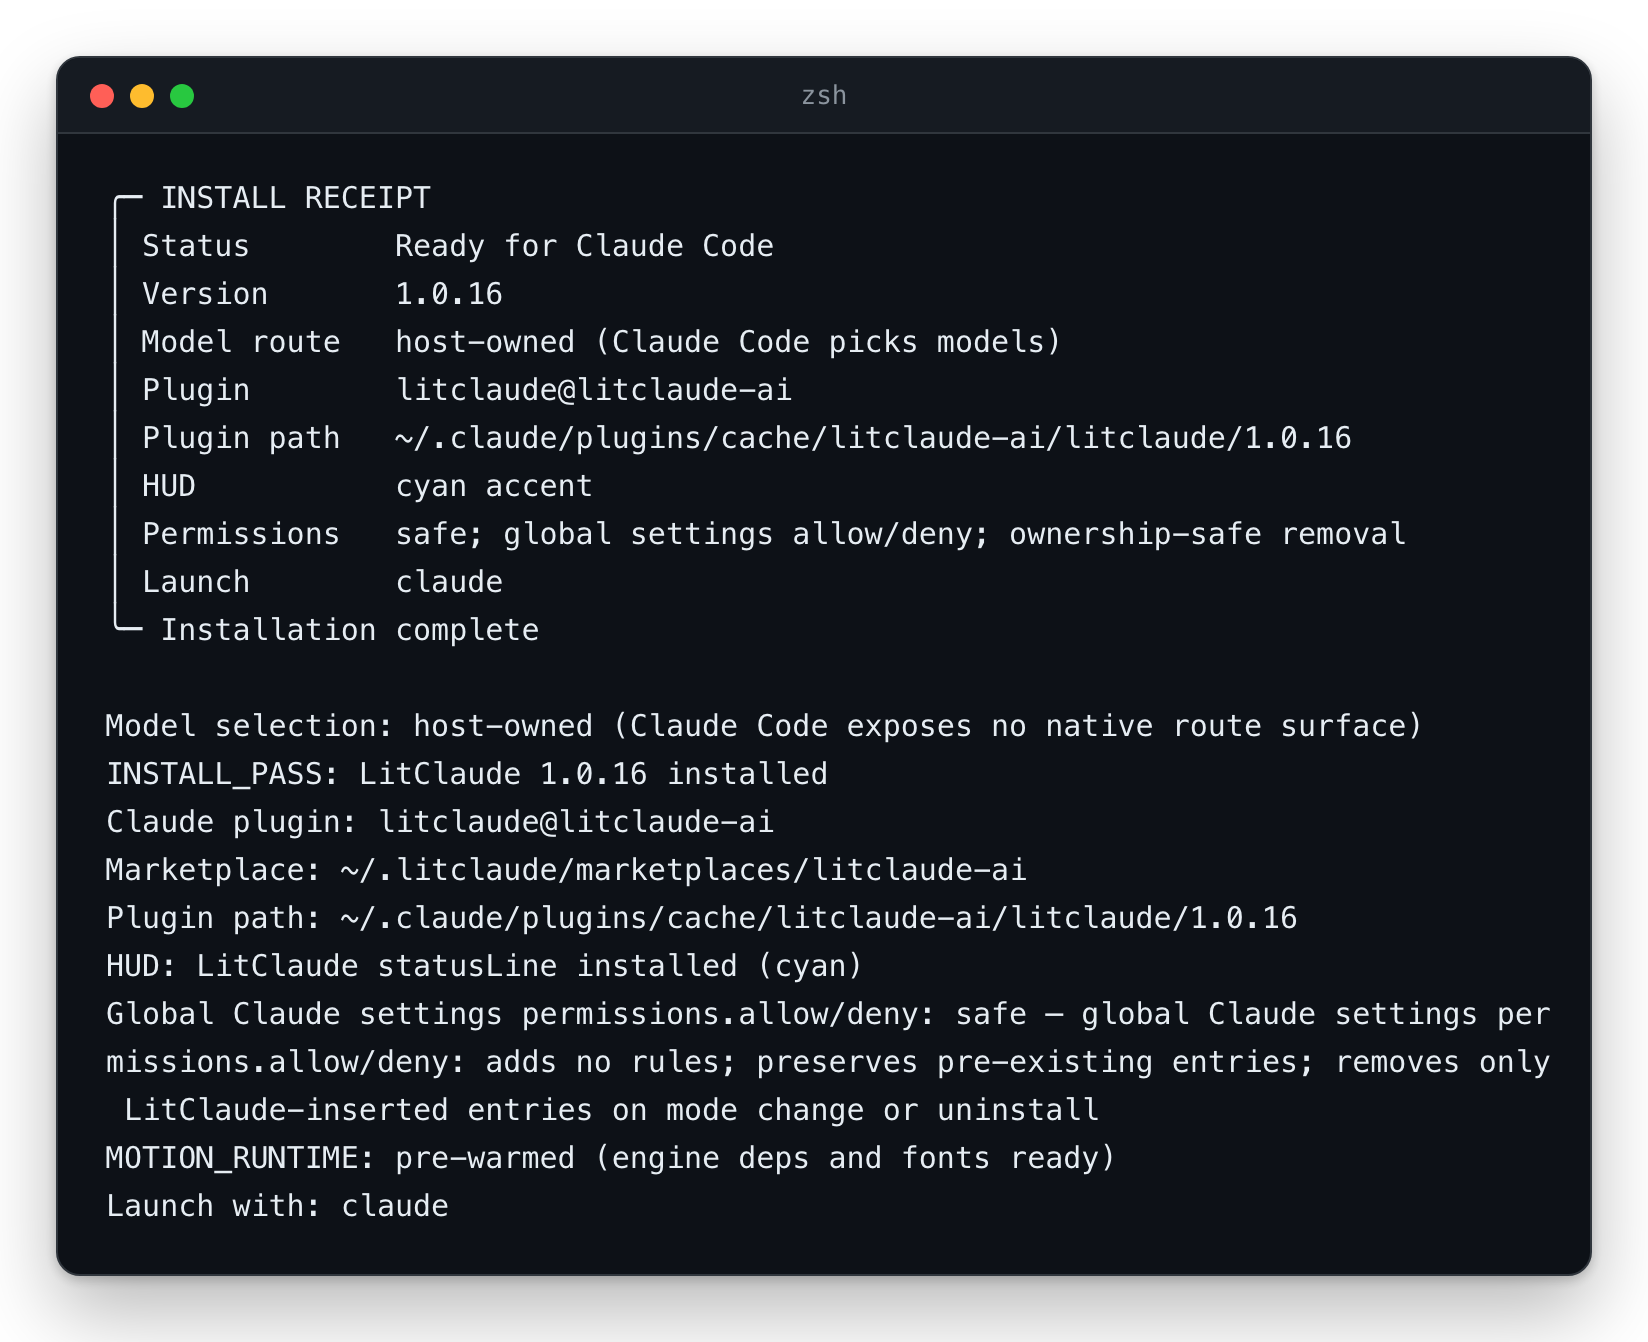
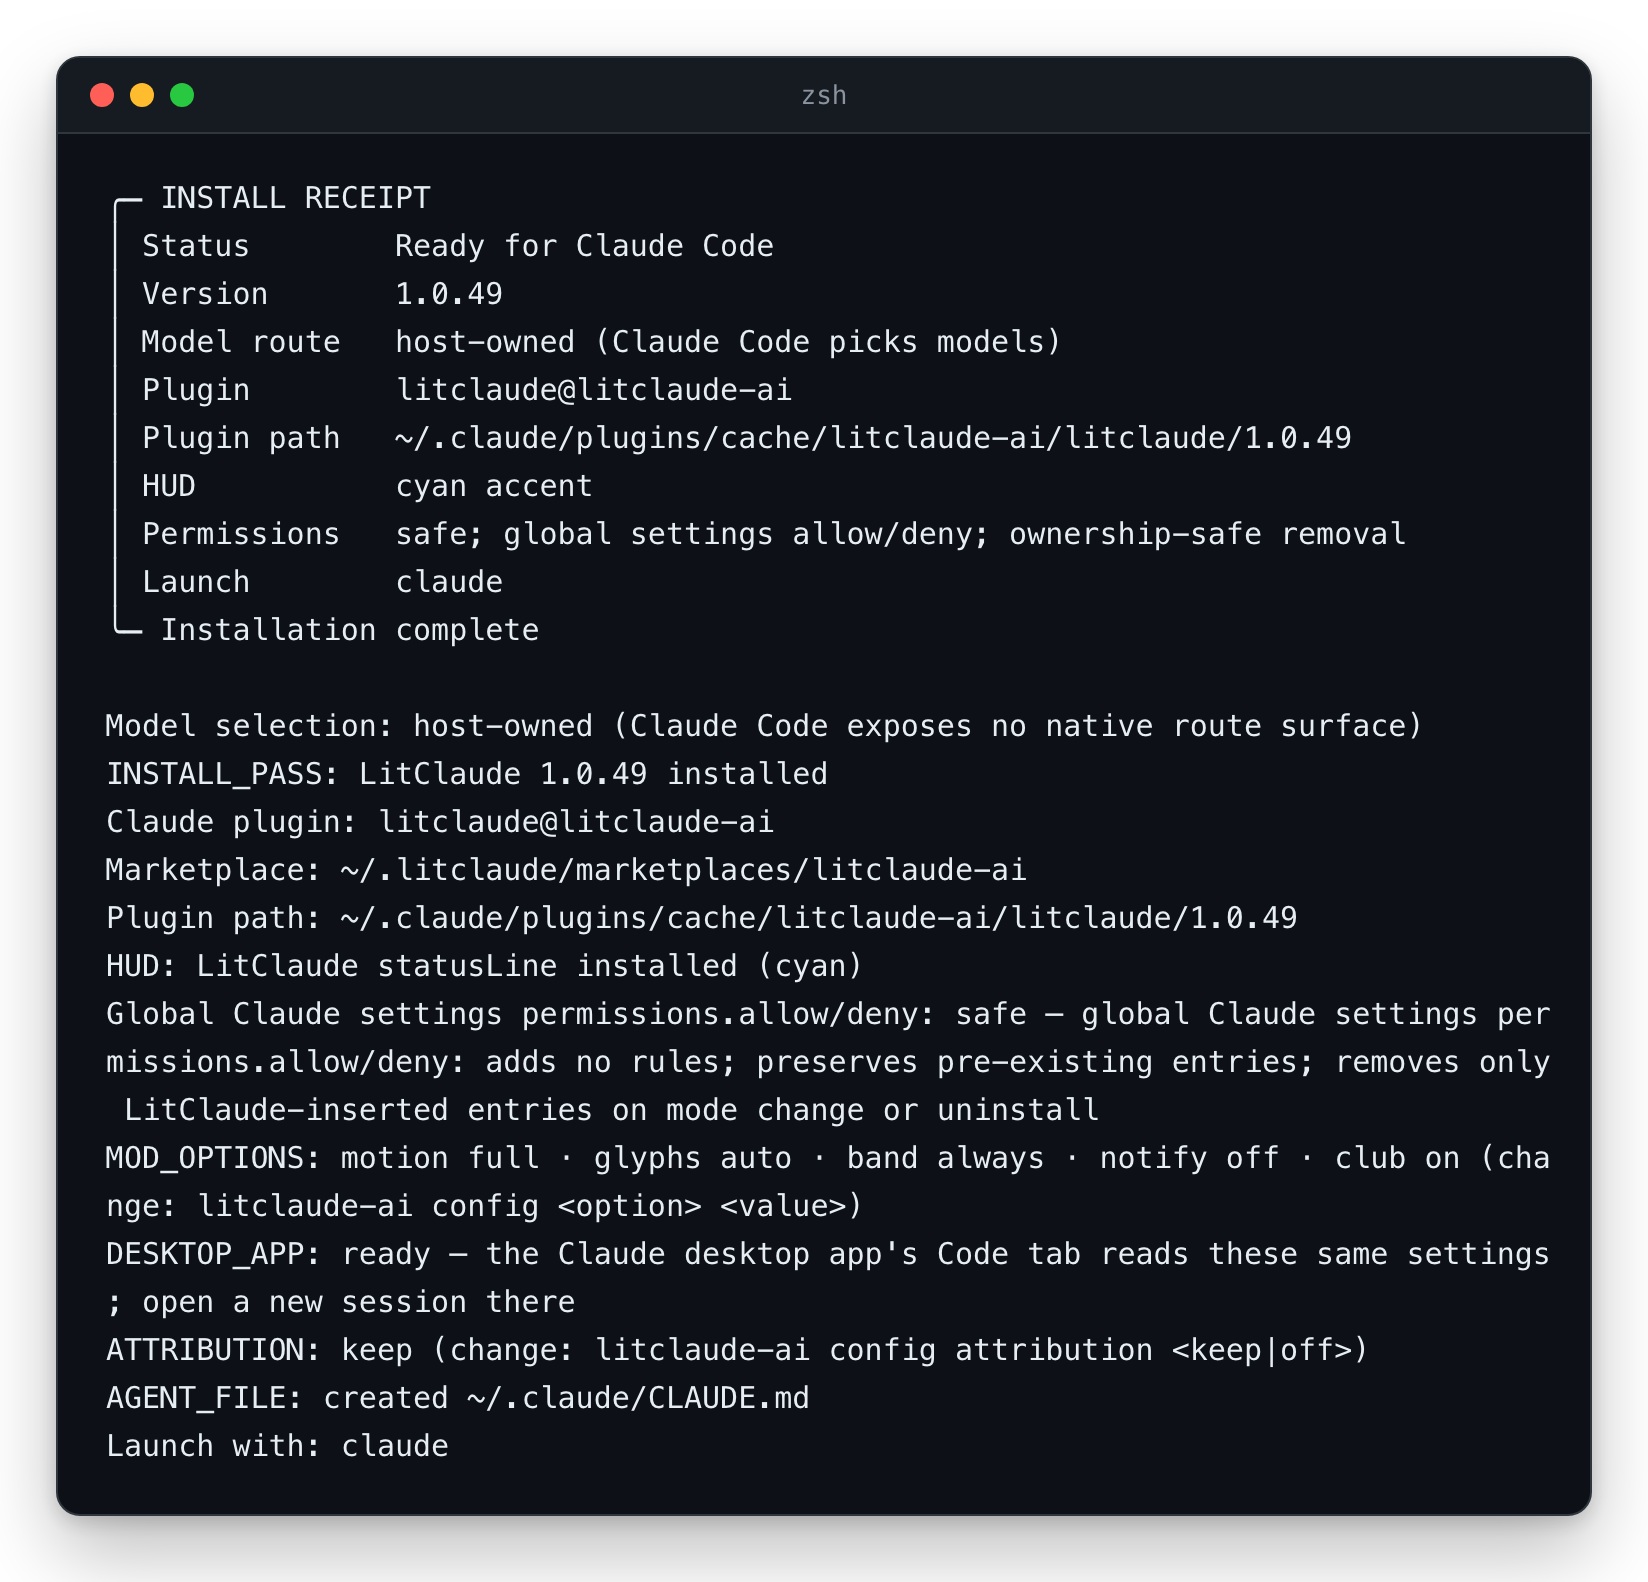
docs(screens): recapture the install receipt with its full output
- install-done-dark/light now show every line the installer prints after the
  receipt, through DESKTOP_APP, ATTRIBUTION, AGENT_FILE and Launch with: claude;
  the motion pre-warm line is gone.
- The screen size cap rises from 60 KiB to 70 KiB to fit the taller capture.
- Both guides describe the new closing lines in the alt text and in the prose
  above the picture, which still spoke of the video tools.

diff --git a/docs/guide_ko-KR.md b/docs/guide_ko-KR.md
@@ -52,11 +52,11 @@ npm exec --yes --package @litfamily/litclaude@latest -- litclaude install --yes
 
 다섯 단계는 각각 체크 표시로 끝나는 짧은 블록을 출력하고, 그다음에 설치 영수증이 나옵니다. 영수증에는
 버전, 플러그인, 파일이 들어간 폴더, HUD 강조색, 권한 모드(safe는 권한 규칙을 더하지 않습니다),
-Claude Code를 시작하는 명령이 적힙니다. 마지막 줄들은 영상 도구에 관한 내용입니다. 이번 실행에서는
-도구가 이미 디스크에 있어서 그 줄이 바로 나왔고, 처음 설치할 때는 먼저 내려받습니다.
-자세한 내용은 [설치](#설치)에 있습니다.
+Claude Code를 시작하는 명령이 적힙니다. 마지막 줄들은 표시 옵션, Claude 데스크톱 앱의 Code 탭이 같은
+설정을 읽는다는 확인, 커밋 attribution 설정, LitClaude가 만든 에이전트 파일을 차례로 보여 주고,
+시작 명령을 한 번 더 적습니다.
 
-<p align="center"><picture><source media="(prefers-color-scheme: dark)" srcset="./assets/screens/install-done-dark.webp" /><img src="./assets/screens/install-done-light.webp" width="824" alt="zsh라는 제목의 터미널 창. INSTALL RECEIPT: Status Ready for Claude Code, Version X.Y.Z, Model route host-owned (Claude Code picks models), Plugin litclaude@litclaude-ai, Plugin path ~/.claude/plugins/cache/litclaude-ai/litclaude/X.Y.Z, HUD cyan accent, Permissions safe; global settings allow/deny; ownership-safe removal, Launch claude, Installation complete. 그 아래에 Model selection: host-owned (Claude Code exposes no native route surface), INSTALL_PASS: LitClaude X.Y.Z installed, Claude plugin: litclaude@litclaude-ai, ~ 아래의 Marketplace와 Plugin path 위치, HUD: LitClaude statusLine installed (cyan), 전역 설정 권한 줄, Launch with: claude 줄이 이어집니다." /></picture></p>
+<p align="center"><picture><source media="(prefers-color-scheme: dark)" srcset="./assets/screens/install-done-dark.webp" /><img src="./assets/screens/install-done-light.webp" width="824" alt="zsh라는 제목의 터미널 창. INSTALL RECEIPT: Status Ready for Claude Code, Version X.Y.Z, Model route host-owned (Claude Code picks models), Plugin litclaude@litclaude-ai, Plugin path ~/.claude/plugins/cache/litclaude-ai/litclaude/X.Y.Z, HUD cyan accent, Permissions safe; global settings allow/deny; ownership-safe removal, Launch claude, Installation complete. 그 아래에 Model selection: host-owned (Claude Code exposes no native route surface), INSTALL_PASS: LitClaude X.Y.Z installed, Claude plugin: litclaude@litclaude-ai, ~ 아래의 Marketplace와 Plugin path 위치, HUD: LitClaude statusLine installed (cyan), 전역 설정 권한 줄, MOD_OPTIONS: motion full · glyphs auto · band always · notify off · club on, DESKTOP_APP: ready — the Claude desktop app's Code tab reads these same settings; open a new session there, ATTRIBUTION: keep, AGENT_FILE: created ~/.claude/CLAUDE.md, Launch with: claude 줄이 이어집니다." /></picture></p>
 
 *설치 프로그램에서 캡처*
 

diff --git a/docs/guide.md b/docs/guide.md
@@ -56,10 +56,11 @@ Claude settings stay as they are. This picture shows a dark terminal.
 The five stages each print a short block that ends in a check mark, and then the installer
 prints a receipt. It names the version, the plugin, the folder the files went to, the HUD
 accent, the permission mode (safe adds no permission rules) and the command that starts Claude
-Code. The last lines cover the video tools. In this run they were already on disk, so that line
-came back at once; a first install downloads them first, as described under [Install](#install).
+Code. The last lines show the display options, confirm that the Claude desktop app's Code tab
+reads the same settings, give the commit attribution setting and the agent file LitClaude wrote,
+and repeat the launch command.
 
-<p align="center"><picture><source media="(prefers-color-scheme: dark)" srcset="./assets/screens/install-done-dark.webp" /><img src="./assets/screens/install-done-light.webp" width="824" alt="Terminal window titled zsh. INSTALL RECEIPT: Status Ready for Claude Code; Version X.Y.Z; Model route host-owned (Claude Code picks models); Plugin litclaude@litclaude-ai; Plugin path ~/.claude/plugins/cache/litclaude-ai/litclaude/X.Y.Z; HUD cyan accent; Permissions safe; global settings allow/deny; ownership-safe removal; Launch claude; Installation complete. Then the lines Model selection: host-owned (Claude Code exposes no native route surface), INSTALL_PASS: LitClaude X.Y.Z installed, Claude plugin: litclaude@litclaude-ai, the Marketplace and Plugin path locations under ~, HUD: LitClaude statusLine installed (cyan), the global settings permissions line, and Launch with: claude." /></picture></p>
+<p align="center"><picture><source media="(prefers-color-scheme: dark)" srcset="./assets/screens/install-done-dark.webp" /><img src="./assets/screens/install-done-light.webp" width="824" alt="Terminal window titled zsh. INSTALL RECEIPT: Status Ready for Claude Code; Version X.Y.Z; Model route host-owned (Claude Code picks models); Plugin litclaude@litclaude-ai; Plugin path ~/.claude/plugins/cache/litclaude-ai/litclaude/X.Y.Z; HUD cyan accent; Permissions safe; global settings allow/deny; ownership-safe removal; Launch claude; Installation complete. Then the lines Model selection: host-owned (Claude Code exposes no native route surface), INSTALL_PASS: LitClaude X.Y.Z installed, Claude plugin: litclaude@litclaude-ai, the Marketplace and Plugin path locations under ~, HUD: LitClaude statusLine installed (cyan), the global settings permissions line, MOD_OPTIONS: motion full · glyphs auto · band always · notify off · club on, DESKTOP_APP: ready — the Claude desktop app's Code tab reads these same settings; open a new session there, ATTRIBUTION: keep, AGENT_FILE: created ~/.claude/CLAUDE.md, and Launch with: claude." /></picture></p>
 
 *Captured from the installer.*
 
